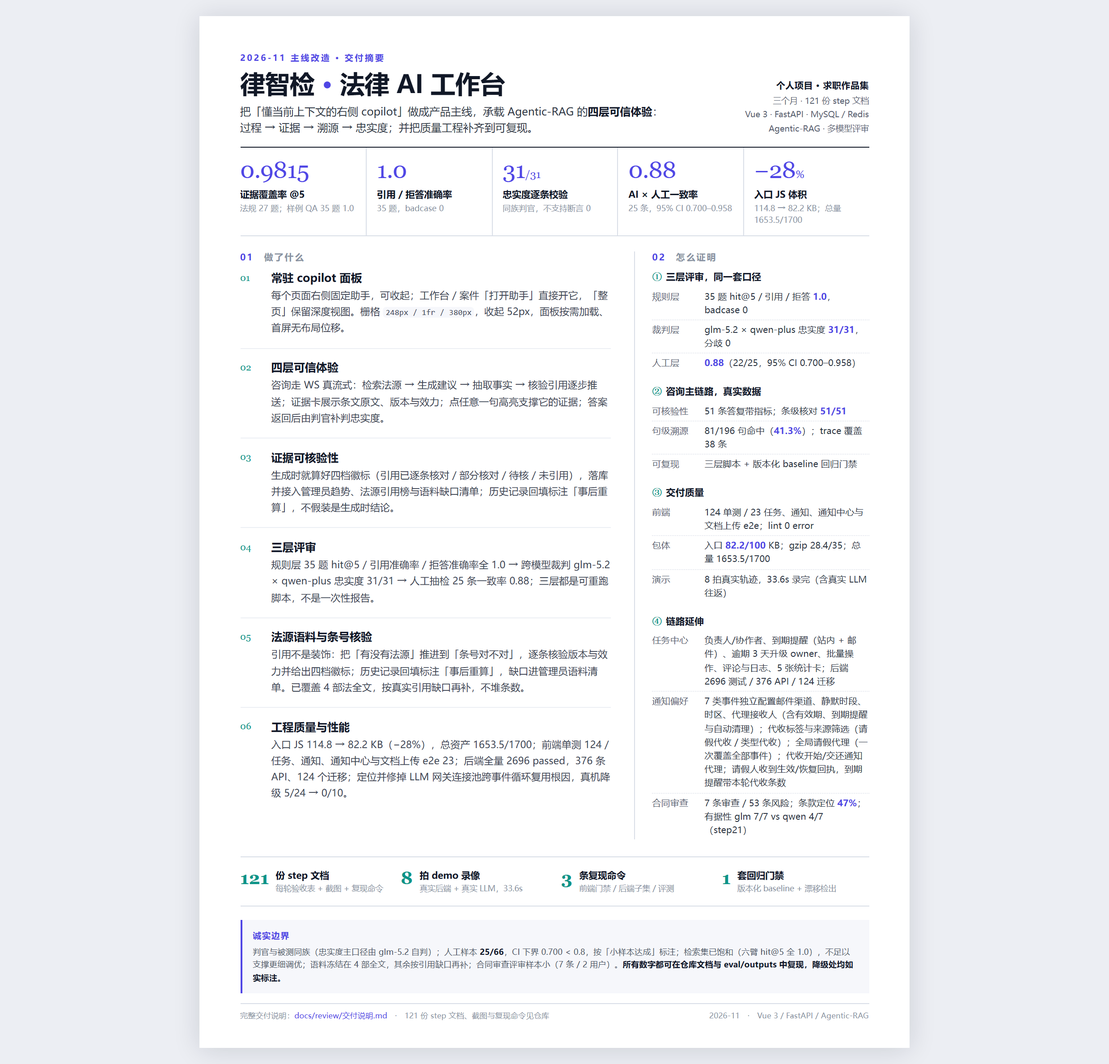
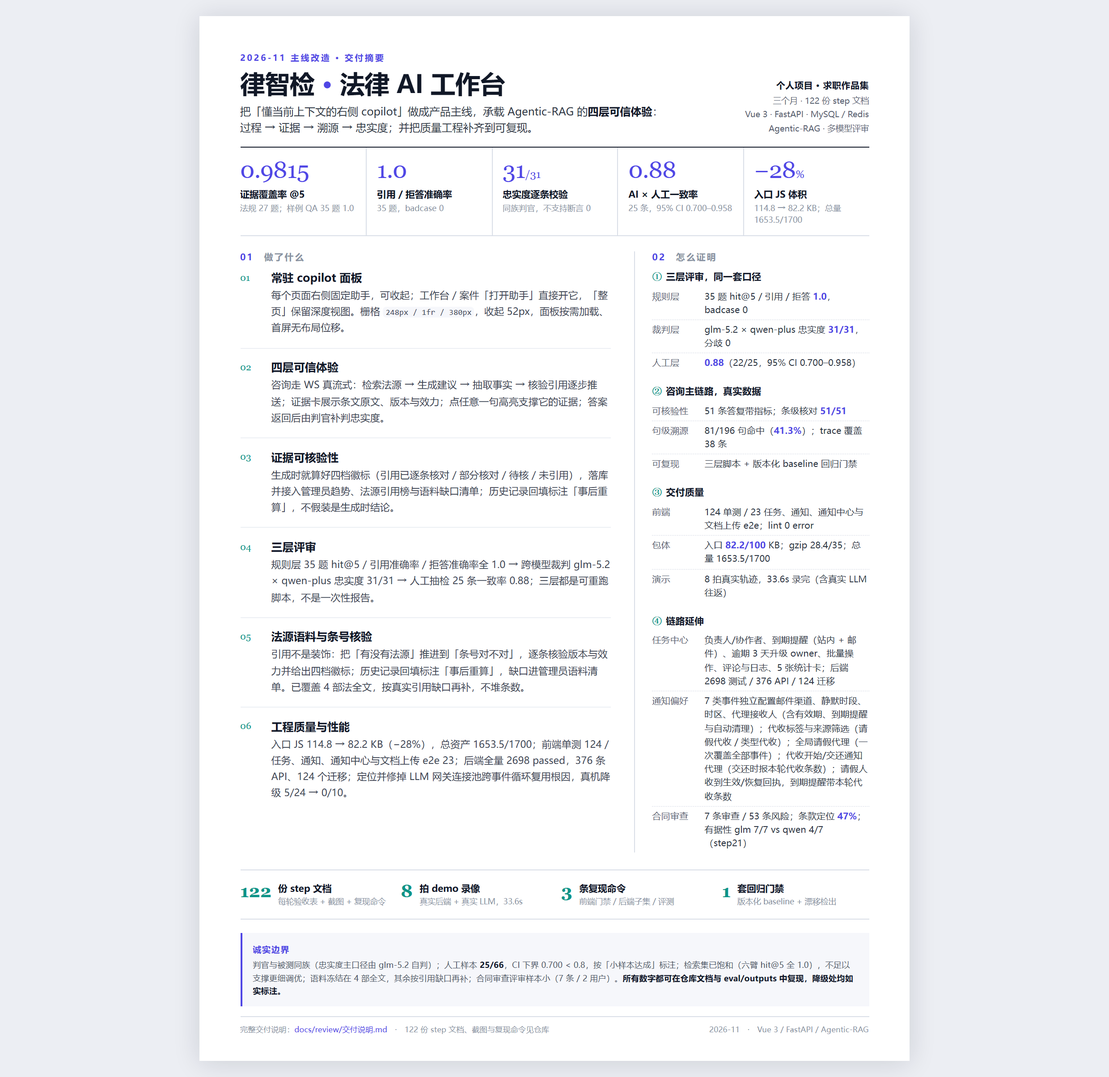
feat(notifications): 代理交还通知带上本轮代收条数

diff --git a/docs/review/投递版.html b/docs/review/投递版.html
@@ -110,7 +110,7 @@
     </div>
     <div class="head-meta">
       <strong>个人项目 · 求职作品集</strong>
-      三个月 · 121 份 step 文档<br />
+      三个月 · 122 份 step 文档<br />
       Vue 3 · FastAPI · MySQL / Redis<br />
       Agentic-RAG · 多模型评审
     </div>
@@ -192,7 +192,7 @@
         <div class="idx">06</div>
         <div>
           <h3>工程质量与性能</h3>
-          <p>入口 JS 114.8 → 82.2 KB（−28%），总资产 1653.5/1700；前端单测 124 / 任务、通知、通知中心与文档上传 e2e 23；后端全量 2696 passed，376 条 API、124 个迁移；定位并修掉 LLM 网关连接池跨事件循环复用根因，真机降级 5/24 → 0/10。</p>
+          <p>入口 JS 114.8 → 82.2 KB（−28%），总资产 1653.5/1700；前端单测 124 / 任务、通知、通知中心与文档上传 e2e 23；后端全量 2698 passed，376 条 API、124 个迁移；定位并修掉 LLM 网关连接池跨事件循环复用根因，真机降级 5/24 → 0/10。</p>
         </div>
       </article>
     </section>
@@ -223,15 +223,15 @@
 
       <div class="proof-block">
         <h4><span>④</span>链路延伸</h4>
-        <div class="proof-row"><div class="k">任务中心</div><div class="v">负责人/协作者、到期提醒（站内 + 邮件）、逾期 3 天升级 owner、批量操作、评论与日志、5 张统计卡；后端 2696 测试 / 376 API / 124 迁移</div></div>
-        <div class="proof-row"><div class="k">通知偏好</div><div class="v">7 类事件独立配置邮件渠道、静默时段、时区、代理接收人（含有效期、到期提醒与自动清理）；代收标签与来源筛选（请假代收 / 类型代收）；全局请假代理（一次覆盖全部事件）；代收开始/交还通知代理；请假人收到生效/恢复回执，到期提醒带本轮代收条数</div></div>
+        <div class="proof-row"><div class="k">任务中心</div><div class="v">负责人/协作者、到期提醒（站内 + 邮件）、逾期 3 天升级 owner、批量操作、评论与日志、5 张统计卡；后端 2698 测试 / 376 API / 124 迁移</div></div>
+        <div class="proof-row"><div class="k">通知偏好</div><div class="v">7 类事件独立配置邮件渠道、静默时段、时区、代理接收人（含有效期、到期提醒与自动清理）；代收标签与来源筛选（请假代收 / 类型代收）；全局请假代理（一次覆盖全部事件）；代收开始/交还通知代理（交还时报本轮代收条数）；请假人收到生效/恢复回执，到期提醒带本轮代收条数</div></div>
         <div class="proof-row"><div class="k">合同审查</div><div class="v">7 条审查 / 53 条风险；条款定位 <b>47%</b>；有据性 glm 7/7 vs qwen 4/7（step21）</div></div>
       </div>
     </aside>
   </div>
 
   <section class="deliverables">
-    <div class="d-item"><b>121</b><div><span>份 step 文档</span><em>每轮验收表 + 截图 + 复现命令</em></div></div>
+    <div class="d-item"><b>122</b><div><span>份 step 文档</span><em>每轮验收表 + 截图 + 复现命令</em></div></div>
     <div class="d-item"><b>8</b><div><span>拍 demo 录像</span><em>真实后端 + 真实 LLM，33.6s</em></div></div>
     <div class="d-item"><b>3</b><div><span>条复现命令</span><em>前端门禁 / 后端子集 / 评测</em></div></div>
     <div class="d-item"><b>1</b><div><span>套回归门禁</span><em>版本化 baseline + 漂移检出</em></div></div>
@@ -243,7 +243,7 @@
   </section>
 
   <footer class="foot">
-    <div>完整交付说明：<a href="交付说明.md">docs/review/交付说明.md</a>　·　121 份 step 文档、截图与复现命令见仓库</div>
+    <div>完整交付说明：<a href="交付说明.md">docs/review/交付说明.md</a>　·　122 份 step 文档、截图与复现命令见仓库</div>
     <div class="stack">2026-11　·　Vue 3 / FastAPI / Agentic-RAG</div>
   </footer>
 

diff --git a/tests/test_leave_delegate_notice.py b/tests/test_leave_delegate_notice.py
@@ -132,6 +132,53 @@ class LeaveDelegateNoticeTests(unittest.TestCase):
         self.assertEqual({event.channel for event in ended}, {"site", "email"})
         self.assertEqual(ended[0].title, "请假代收结束：已交还给 Alice")
         self.assertIn("不再转给你", ended[0].body)
+        self.assertIn("本轮没有需要转发的通知", ended[0].body)
+
+    def test_handback_reports_forwarded_count(self):
+        """交还时告诉代理这轮代收了多少，站内与邮件同口径。"""
+        self._leave(delegate=self.bob)
+        for index in range(3):
+            notification_service.create_multi_channel_notification(
+                db=self.db,
+                organization_id=self.org.id,
+                user_id=self.alice.id,
+                event_type="deadline",
+                title=f"代收事件 {index}",
+                channels=["site"],
+                # 幂等键不含标题：用不同 reference 造出三条独立事件
+                reference_type="task",
+                reference_id=index + 1,
+            )
+
+        notification_service.clear_leave(
+            db=self.db, user_id=self.alice.id, organization_id=self.org.id,
+        )
+
+        ended = self._events(self.bob, template=LEAVE_ENDED_TEMPLATE)
+        self.assertEqual(len(ended), 2)  # site + email
+        self.assertTrue(all("本轮你共代收 3 条通知" in event.body for event in ended))
+
+    def test_handback_count_ignores_previous_period(self):
+        """换代理时，旧代理只收到自己那轮的条数，新代理从 0 开始。"""
+        self._leave(delegate=self.bob)
+        for index in range(2):
+            notification_service.create_multi_channel_notification(
+                db=self.db,
+                organization_id=self.org.id,
+                user_id=self.alice.id,
+                event_type="deadline",
+                title=f"Bob 代收 {index}",
+                channels=["site"],
+                reference_type="task",
+                reference_id=index + 1,
+            )
+
+        self._leave(delegate=self.carol)
+
+        bob_ended = self._events(self.bob, template=LEAVE_ENDED_TEMPLATE)
+        self.assertTrue(all("本轮你共代收 2 条通知" in event.body for event in bob_ended))
+        carol_started = self._events(self.carol, template=LEAVE_STARTED_TEMPLATE)
+        self.assertTrue(all("代 Alice 接收" in event.body for event in carol_started))
 
     def test_expiry_cleanup_sends_handback(self):
         self._leave(delegate=self.bob, end=date(2026, 11, 10))

diff --git a/app/services/notification/notification_service.py b/app/services/notification/notification_service.py
@@ -1180,13 +1180,23 @@ class NotificationService:
         ):
             return False
         original = self._display_name(db, leave.user_id)
+        # 与请假人回执同一口径：本轮从「开始代收」算起，让代理知道这轮帮人接了多少。
+        forwarded = self._leave_period_forwarded_count(db=db, leave=leave)
+        summary = (
+            f"本轮你共代收 {forwarded} 条通知"
+            if forwarded
+            else "本轮没有需要转发的通知"
+        )
         self.create_multi_channel_notification(
             db=db,
             organization_id=leave.organization_id,
             user_id=delegate.id,
             event_type="deadline",
             title=f"请假代收结束：已交还给 {original}",
-            body=f"{original} 的请假已结束，之后通知恢复发给本人，不再转给你。",
+            body=(
+                f"{original} 的请假已结束，之后通知恢复发给本人，不再转给你。"
+                f"{summary}。"
+            ),
             channels=[CHANNEL_SITE, CHANNEL_EMAIL],
             reference_type=LEAVE_NOTICE_REFERENCE,
             reference_id=leave.id,

diff --git a/docs/review/交付说明.md b/docs/review/交付说明.md
@@ -5,7 +5,7 @@
 > 这份文档是入口。想快速判断「值不值得看」，读第 1、4、6 节；想复现，读第 7 节；想深挖某一项，跳第 8 节索引。
 
 - 时间范围：2026-10-11 → 2026-11-02（100 份 step 文档，编号 step1–step105 有跳号；每轮交付都有截图与验收表）
-- 代码状态：`master`；本文档之后追加了 step21（合同审查三层评审）、step22（消保法语料）、step23（民间借贷语料）、step24（合同审查第三层裁决）、step25（合同审查证据链）、step26（风险存储合并）、step27（跨审查风险统计）、step28（风险处置追溯）、step29（SLA 提醒与咨询证据链）、step30（队列证据链信号）、step31（无依据咨询通知）、step32（追问引用对比）、step33（补充完成通知）、step34（SLA 站内提醒）、step35（批量处置与门户概览）、step36（合同台账审查视图）、step37（通知邮件渠道）、step38（HTML 邮件模板）、step39（Outbox 投递看板）、step40（通知模板可编辑）、step41（投递趋势与阈值告警）、step42（积压快照与积压曲线）、step43（告警升级与静默时段）、step44（合同台账审查摘要物化）、step45（按审查时间排序与严重度细分）、step46（台账 keyset 分页与排序索引）、step47（台账搜索索引化）、step48（搜索高亮与命中字段提示）、step49（按相关度排序）、step50（命中片段）、step51（引用质量问题下钻）、step52（引用问题处置）、step53（System 包体拆分）、step54（工作台主 tab 拆分）、step55（咨询带入时序修复）、step56（咨询结果页面级）、step57（咨询结果 URL 恢复）、step58（咨询状态一致性）、step59（咨询结果版本同步）、step60（咨询内容指纹）、step61（结果状态与复制）、step62（Markdown 导出）、step63（导出记录）、step64（导出保留与分页）、step65（保留配置与定时任务）、step66（审核记录）、step67（历史搜索）、step68（服务端搜索）、step69（cursor 分页）、step70（Tailwind 治理）、step71（咨询加载更多）、step72（合同/文书加载更多）、step73（合同筛选下推）、step74（合同历史总数）、step75（咨询/文书总数）、step76（首屏 count）、step77（count 缓存）、step78（咨询跟进任务）、step79（任务 case_id）、step80（任务案件标题）、step81（任务详情案件入口）、step82（案件内新建任务）、step83（历史任务回填）、step84（来源中文化与案件标题）、step85（fetch 替换 axios）、step86（任务截止日期）、step87（任务搜索与排序）、step88（任务到期提醒）、step89（逾期提醒与时区）、step90（任务统计全量口径）、step91（统计卡点击筛选）、step92（统计卡组合筛选）、step93（任务归档与恢复）、step94（任务操作日志中文化）、step95（任务负责人真实用户化）、step96（任务批量改派）、step97（任务批量完成/归档/改优先级）、step98（任务协作者真实用户化）、step99（任务日志/评论显示操作人）、step100（任务「我参与的」筛选）、step101（任务「我参与的」统计卡）、step102（协作者加入站内通知）、step103（任务评论编辑/删除）、step104（任务日志筛选与分页）、step105（任务优先级筛选）、step106（协作者到期提醒与邮件渠道）、step107（任务逾期升级）、step108（通知偏好设置页）、step109（静默时段接入普通通知）、step110（代理接收人生效）、step111（代理有效期）、step112（代理到期提醒）、step113（代理到期自动清理）、step114（代收标签与筛选）、step115（全局请假代理）、step116（请假代收开始/交还通知）、step117（请假回执）、step118（恢复回执条数）、step119（包体治理）、step120（通知中心区分代收来源）、step121（请假到期提醒带代收条数）与投递版，提交历史见仓库；工作区状态以 `git status` 为准
+- 代码状态：`master`；本文档之后追加了 step21（合同审查三层评审）、step22（消保法语料）、step23（民间借贷语料）、step24（合同审查第三层裁决）、step25（合同审查证据链）、step26（风险存储合并）、step27（跨审查风险统计）、step28（风险处置追溯）、step29（SLA 提醒与咨询证据链）、step30（队列证据链信号）、step31（无依据咨询通知）、step32（追问引用对比）、step33（补充完成通知）、step34（SLA 站内提醒）、step35（批量处置与门户概览）、step36（合同台账审查视图）、step37（通知邮件渠道）、step38（HTML 邮件模板）、step39（Outbox 投递看板）、step40（通知模板可编辑）、step41（投递趋势与阈值告警）、step42（积压快照与积压曲线）、step43（告警升级与静默时段）、step44（合同台账审查摘要物化）、step45（按审查时间排序与严重度细分）、step46（台账 keyset 分页与排序索引）、step47（台账搜索索引化）、step48（搜索高亮与命中字段提示）、step49（按相关度排序）、step50（命中片段）、step51（引用质量问题下钻）、step52（引用问题处置）、step53（System 包体拆分）、step54（工作台主 tab 拆分）、step55（咨询带入时序修复）、step56（咨询结果页面级）、step57（咨询结果 URL 恢复）、step58（咨询状态一致性）、step59（咨询结果版本同步）、step60（咨询内容指纹）、step61（结果状态与复制）、step62（Markdown 导出）、step63（导出记录）、step64（导出保留与分页）、step65（保留配置与定时任务）、step66（审核记录）、step67（历史搜索）、step68（服务端搜索）、step69（cursor 分页）、step70（Tailwind 治理）、step71（咨询加载更多）、step72（合同/文书加载更多）、step73（合同筛选下推）、step74（合同历史总数）、step75（咨询/文书总数）、step76（首屏 count）、step77（count 缓存）、step78（咨询跟进任务）、step79（任务 case_id）、step80（任务案件标题）、step81（任务详情案件入口）、step82（案件内新建任务）、step83（历史任务回填）、step84（来源中文化与案件标题）、step85（fetch 替换 axios）、step86（任务截止日期）、step87（任务搜索与排序）、step88（任务到期提醒）、step89（逾期提醒与时区）、step90（任务统计全量口径）、step91（统计卡点击筛选）、step92（统计卡组合筛选）、step93（任务归档与恢复）、step94（任务操作日志中文化）、step95（任务负责人真实用户化）、step96（任务批量改派）、step97（任务批量完成/归档/改优先级）、step98（任务协作者真实用户化）、step99（任务日志/评论显示操作人）、step100（任务「我参与的」筛选）、step101（任务「我参与的」统计卡）、step102（协作者加入站内通知）、step103（任务评论编辑/删除）、step104（任务日志筛选与分页）、step105（任务优先级筛选）、step106（协作者到期提醒与邮件渠道）、step107（任务逾期升级）、step108（通知偏好设置页）、step109（静默时段接入普通通知）、step110（代理接收人生效）、step111（代理有效期）、step112（代理到期提醒）、step113（代理到期自动清理）、step114（代收标签与筛选）、step115（全局请假代理）、step116（请假代收开始/交还通知）、step117（请假回执）、step118（恢复回执条数）、step119（包体治理）、step120（通知中心区分代收来源）、step121（请假到期提醒带代收条数）、step122（代理交还通知带代收条数）与投递版，提交历史见仓库；工作区状态以 `git status` 为准
 - 计划与诊断原文：[2026-10-project-diagnosis.md](2026-10-project-diagnosis.md)（本文是它的交付收口）
 
 ---
@@ -186,6 +186,7 @@
 | 包体治理（step119） | 三处只当文件选择器用的 el-upload 换原生 input（−32.4 KB），生产构建改用 terser（−5.4 KB）；总资产 1689.1 → 1651.3 KB，余量 10.9 → 48.7 KB；e2e 固定 5174，修掉复用本机其它项目 dev server 的假失败。无迁移、无接口变化 | [step119](step119-bundle-headroom.md) |
 | 代收来源区分（step120） | `legal_notification_events.on_behalf_of_source`（迁移 0123，124 个）：请假代收写 `leave`、按事件类型代收写 `event`，本人接收为空；`GET /notifications/me` 新增 `delegation_source=leave/event/unknown` 并可单独筛选；通知中心代收标签改为「请假代收 · X / 类型代收 · X / 代收 · X」，请假中在页头给出提示条直达通知偏好；历史代收事件保持 NULL、按「代收」展示。OpenAPI 376，总资产 1653.5 KB | [step120](step120-delegation-source.md) |
 | 到期提醒带条数（step121） | 请假到期前 2 天的提醒正文补上「本轮代理已代收 N 条」（0 条写「本轮还没有需要转发的通知」），与「已恢复」回执共用 `leave_period_forwarded_count` 口径；站内与邮件同一段正文，全程 `allow_delegate=False`。无迁移、无接口变化、包体不变（1653.5 KB） | [step121](step121-leave-reminder-count.md) |
+| 交还通知带条数（step122） | 请假结束/换代理时，原代理收到的「已交还」正文补上「本轮你共代收 N 条」（0 条写「本轮没有需要转发的通知」），同口径同函数；换代理先发交还再 +1 轮次，旧代理只看到自己接手的部分。无迁移、无接口变化、包体不变（1653.5 KB） | [step122](step122-handback-count.md) |
 | 消保法语料 | 8 → **63 条**全文；4 个演示法源同步 **252 条**；演示库条文 **1034 → 1254**；第25/55条核验 `verified=true` | [step22](step22-consumer-law-corpus.md)；`scripts/import_consumer_law_corpus.py` |
 | 民间借贷语料 | 8 → **31 条**全文（2020 年第二次修正）；4 个演示法源同步 **124 条**；演示库条文 **1254 → 1346**；第13/25条核验 `verified=true` | [step23](step23-private-lending-corpus.md)；`scripts/import_private_lending_corpus.py` |
 
@@ -289,7 +290,7 @@
 - 把「证据可核验性」做成**在线指标**：生成时算好随答复返回，覆盖 51 条真实咨询，已做条级核对的 51 条引用全部通过；管理员页给出趋势、法源引用榜与语料缺口清单，历史记录回填标注「事后重算」。
 - 补全**法源条文语料**并修条号归属口径：劳动合同法 98 条、劳动争议调解仲裁法 54 条、消费者权益保护法 63 条、民间借贷规定 31 条全文；消保法/民间借贷共 8 个演示法源同步 376 条，演示库条文 1034 → 1346；历史引用里能查到条文正文的比例，user 3 从 0/10 提升到 8/10、user 37 从 20/46 提升到 41/46。
 - 前端性能治理：copilot 面板改按需加载，**入口 JS 114.8 → 78.4 KB（−32%）、gzip 41.1 → 27.4 KB（−33%）**，并重定包体预算 + 加 95% 预警档，四项预算全绿。
-- 质量门禁：前端单元 124、任务/通知/通知中心/文档上传 e2e 23 条全绿；后端全量 2696 passed；定位并修掉 LLM 网关「事件循环关闭后连接池复用」根因（真机降级 5/24 → 0/10）。
+- 质量门禁：前端单元 124、任务/通知/通知中心/文档上传 e2e 23 条全绿；后端全量 2698 passed；定位并修掉 LLM 网关「事件循环关闭后连接池复用」根因（真机降级 5/24 → 0/10）。
 - 全站视觉收敛到统一设计系统：令牌唯一取色、共享类复用、硬编码颜色清零，覆盖 20+ 页面与 15 个管理 tab。
 
 ---

diff --git a/docs/review/step122-handback-count.md b/docs/review/step122-handback-count.md
@@ -1,0 +1,79 @@
+# 第一百二十二步交付说明：代理交还通知带上本轮代收条数
+
+> 一句话：请假结束/换代理时，原代理收到的「已交还」通知原先只说「不再转给你」；现在补一句「本轮你共代收 N 条」，与请假人回执对称。纯后端改动，总资产 **1653.5 KB 不变**。
+
+- 日期：2026-11-14
+- 后端：`services/notification/notification_service.py`
+- 前端：无改动
+- 契约：OpenAPI **376 paths / 178 schemas / 28 error codes**（无接口变化）
+- 迁移：**无新增**（仍 124 个，head `20261114_0123`）
+- 测试：后端 `test_leave_delegate_notice.py` 12 → **14**；前端单测 124 / e2e 23 不变
+
+---
+
+## 1. 为什么
+
+请假这条链上三个角色都该知道「这轮代收了多少」：
+
+| 角色 | 之前 | 现在 |
+| --- | --- | --- |
+| 请假人（结束前 2 天） | step121：到期提醒带「本轮已代收 N 条」 | 不变 |
+| 请假人（结束时） | step118：「已恢复」回执带条数 | 不变 |
+| 代理（交还时） | 只有「不再转给你」 | **本轮你共代收 N 条** |
+
+代理在交还时最需要这个数字来收尾：判断有没有需要当面交接的事项、评估代收期间的负担。同一条链上两个角色、三个时点看到的是同一个口径，不会互相矛盾。
+
+## 2. 做了什么
+
+`notify_leave_ended` 在拼正文前取一次 `_leave_period_forwarded_count`（与 step118/121 同一个函数）：
+
+| 情况 | 正文片段 |
+| --- | --- |
+| 有代收 | `本轮你共代收 7 条通知` |
+| 没有代收 | `本轮没有需要转发的通知` |
+
+完整正文示例：
+
+```
+Alice 的请假已结束，之后通知恢复发给本人，不再转给你。本轮你共代收 7 条通知。
+```
+
+- 站内与邮件共用同一段正文；
+- 换代理时顺序是对的：`set_leave` 先发「已交还」再 `leave_period += 1`，所以旧代理拿到的是**自己那一轮**的条数，新代理从 0 开始；
+- 结束时也先发交还、再清空字段，计数拿到的仍是正在结束的那一轮。
+
+## 3. 数字
+
+| 项 | 改前 | 改后 |
+| --- | --- | --- |
+| 总资产（raw） | 1653.5 KB | **1653.5 KB**（无变化） |
+| 入口 / gzip / 最大 chunk | 82.2 / 28.4 / 87.0 | 不变 |
+| 后端测试（该文件） | 12 | **14**（+2） |
+| 后端全量 | 2696 | **2698**（见第 4 节） |
+| 迁移 / OpenAPI | 124 / 376 | 124 / 376（不变） |
+
+代码量：`notification_service.py` +11 行（含注释）、测试 +63 行。
+
+## 4. 验证
+
+- 新增 2 条测试：
+  - `test_handback_reports_forwarded_count`：请假生效后造 3 条真实代收事件，结束请假，站内与邮件正文都含「本轮你共代收 3 条通知」；
+  - `test_handback_count_ignores_previous_period`：Bob 代收 2 条 → 换 Carol，Bob 的交还通知只写 2 条、Carol 的开始通知正常，证明轮次没有串；
+- 既有 12 条全过（含生效通知、定时生效、幂等、停用/跨组织跳过、不转给代理的代理、到期清理发交还）；
+- 0 条情形在 `test_ending_leave_notifies_delegate_once` 里断言「本轮没有需要转发的通知」；
+- 全量门禁：**11/11，exit 0，18.6 分钟**；后端 **2698 passed / 4 skipped**（16 分 45 秒），前端单测 124、e2e 23、OpenAPI 376、迁移 124 全绿。
+
+## 5. 边界
+
+1. **只数站内通知**：与请假人回执同口径，邮件/微信投递不重复计入。
+2. **以「开始代收」通知划界**：代理没收到过开始通知（如代理被停用、跨组织）时既不发交还、也不会有数字。
+3. **换代理时旧代理看到的是自己那轮**：不是整段请假的总数；新代理从 0 开始，各自只看自己接手的部分。
+4. **数字是交还那一刻的值**：之后请假人再开新的一轮，旧通知不会更新。
+5. **交还通知仍不转给代理的代理**：`allow_delegate=False`，保证「已交还」直达本人。
+6. **无接口、无迁移、包体不变**：契约零改动。
+
+## 6. 后续建议
+
+- **请假链路的数字汇总页**：把「请假人视角 / 代理视角 / 提示条」三处数字集中成一个可点开的明细（哪些通知、什么类型），现在只有总数；
+- 代理视角的「我代收了谁」聚合：按请假人分组展示，需要前端改动，当前包体 97% 需先量产物；
+- 若还想压包体，可评估 `@ctrl/tinycolor`（13 KB，仅 el-button 的 `color` 属性用、当前未使用）与 `el-input-number`（12 KB，仅两处数字输入）。

diff --git a/README.md b/README.md
@@ -29,7 +29,7 @@
 
 - **案件工作区**：概览、文档、法律咨询、合同审查、文书、审核、任务与关键日期共 8 个标签页，共享同一份案件上下文
 - **任务中心**：看板/表格双视图，负责人与协作者真实用户、到期提醒（负责人 + 协作者，站内 + 邮件）与逾期 3 天升级 owner、批量改派/完成/归档、评论与操作日志、优先级/范围/逾期筛选与统计卡，写操作按 owner/负责人/协作者权限分层
-- **通知中心**：站内通知与任务/审核深链；通知偏好按事件类型配置邮件渠道、静默时段、时区与代理接收人（支持有效期、到期提醒与自动清理），另设用户级「请假代理」一次覆盖全部事件类型、代理在开始与交还时收到通知、请假人收到生效/恢复回执、到期提醒带本轮代收条数，通知中心带「代 X 接收」标签与来源筛选（按「请假代收 / 类型代收 / 全部代收 / 本人」细分，请假中在页头提示并直达通知偏好），命中静默时外部渠道自动延后
+- **通知中心**：站内通知与任务/审核深链；通知偏好按事件类型配置邮件渠道、静默时段、时区与代理接收人（支持有效期、到期提醒与自动清理），另设用户级「请假代理」一次覆盖全部事件类型、代理在开始与交还时收到通知（交还时报本轮代收条数）、请假人收到生效/恢复回执、到期提醒带本轮代收条数，通知中心带「代 X 接收」标签与来源筛选（按「请假代收 / 类型代收 / 全部代收 / 本人」细分，请假中在页头提示并直达通知偏好），命中静默时外部渠道自动延后
 - **法律咨询**：混合检索（向量 + BM25 + RRF 重排）后给出结构化分析，标注风险级别、引用法条与逐句依据覆盖率
 - **合同审查**：版面感知解析 → 条款切分 → 高/中/低风险分级 → 原文定位，可导出审查意见并对比版本差异
 - **文书草稿**：按文书类型生成结构化字段（当事人、仲裁请求、事实与理由、证据清单），草稿进入版本管理并可提交审核
